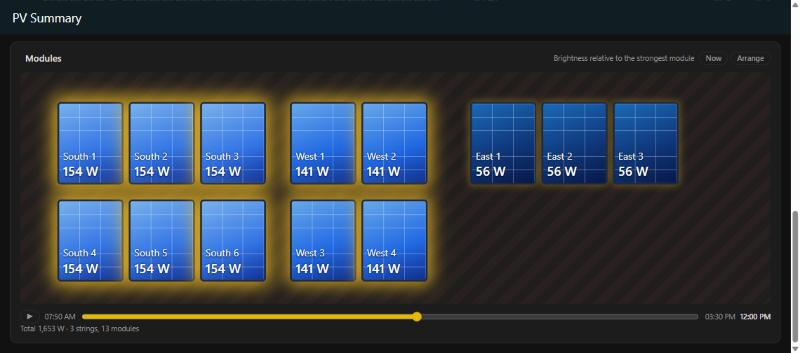
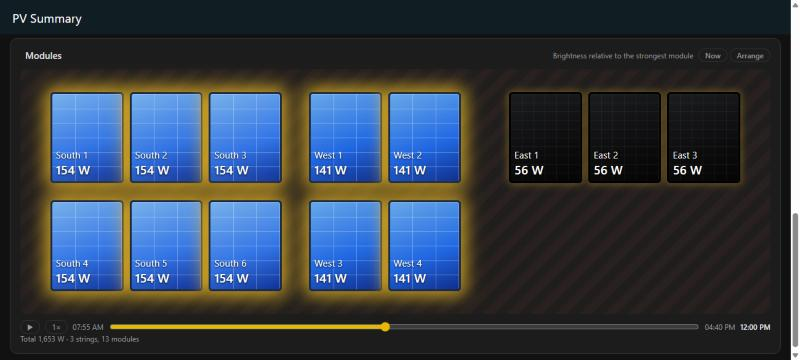
v1.18.0: full black modules, playback speed, brightness to the day's peak
- Strings: new field "Module colour" (blue or full black); full black tiles stay black and show their power by the glow around them
- Module view: playback speed 0.5x, 1x, 2x or 4x next to the play button, remembered by the browser
- Module view: third brightness mode relative to the highest module value of the whole day
- README: describes the new options, new module screenshot

diff --git a/custom_components/pv_overview/frontend/pv-summary-panel.js b/custom_components/pv_overview/frontend/pv-summary-panel.js
@@ -77,6 +77,7 @@ const STYLE = `
   .modroof { position:relative; border-radius:8px; background:repeating-linear-gradient(135deg, rgba(150,80,60,.10) 0 14px, rgba(150,80,60,.04) 14px 28px); }
   .modroof.edit { outline:1px dashed var(--divider-color, rgba(0,0,0,.25)); background-image:linear-gradient(var(--divider-color, rgba(0,0,0,.08)) 1px, transparent 1px), linear-gradient(90deg, var(--divider-color, rgba(0,0,0,.08)) 1px, transparent 1px);  }
   .modtile { position:absolute; box-sizing:border-box; border-radius:6px; border:3px solid #1b2a44; padding:6px; display:flex; flex-direction:column; justify-content:flex-end; color:#fff; cursor:pointer; transition:background 1s ease, box-shadow 1s ease; user-select:none; overflow:hidden; }
+  .modtile.black { border-color:#000; }
   .modroof.edit .modtile { cursor:grab; transition:none; touch-action:none; }
   .modroof.edit .modtile.drag { cursor:grabbing; z-index:2; outline:2px solid var(--primary-color, #03a9f4); }
   .modtile .mn { font-size:1em; text-shadow:0 1px 3px #000; white-space:nowrap; overflow:hidden; text-overflow:ellipsis; }
@@ -210,6 +211,7 @@ class PVSummaryPanel extends HTMLElement {
     this._modDraft = null;   // Anordnung während des Bearbeitens
     this._modDrag = null;    // gerade gezogene Kachel
     this._modTimer = null;   // Abspielen des Tages
+    this._modSpeed = [0.5, 1, 2, 4].includes(Number(loadPref("pv-summary-modspeed", "1"))) ? Number(loadPref("pv-summary-modspeed", "1")) : 1;
     this._cardEdit = false;  // Karten anpassen aktiv
     this._cardDraft = null;  // Kartenanordnung während des Anpassens
     this._cardDrag = null;   // gerade gezogene Karte
@@ -1826,6 +1828,7 @@ class PVSummaryPanel extends HTMLElement {
       ? `<span class="navbtns">
           <button class="navbtn ${lay.mode !== "own" ? "active" : ""}" data-nav="mod-mode-max" title="${TT("Hellstes Modul = 100 %", "Brightest module = 100 %")}">${TT("rel. zum stärksten", "rel. to strongest")}</button>
           <button class="navbtn ${lay.mode === "own" ? "active" : ""}" data-nav="mod-mode-own" title="${TT("Jeder String zu seinem Tageshöchstwert", "Each string to its peak of the day")}">${TT("je String eigenes Max.", "own peak per string")}</button>
+          <button class="navbtn ${lay.mode === "day" ? "active" : ""}" data-nav="mod-mode-day" title="${TT("Höchster Wert eines Moduls am ganzen Tag = 100 %", "Highest module value of the whole day = 100 %")}">${TT("zum Tagesmaximum", "to the day's peak")}</button>
           <button class="navbtn" data-nav="mod-cancel">${TT("Abbrechen", "Cancel")}</button>
           <button class="navbtn active" data-nav="mod-done">${TT("Fertig", "Done")}</button></span>`
       : `<span class="navbtns">${this._isToday ? `<button class="navbtn modlive" data-nav="mod-live"${this._modT === null ? ' style="display:none"' : ""}>${TT("Jetzt", "Now")}</button>` : ""}${admin ? `<button class="navbtn" data-nav="mod-edit">${TT("Anordnen", "Arrange")}</button>` : ""}</span>`;
@@ -1833,14 +1836,14 @@ class PVSummaryPanel extends HTMLElement {
       const p = pos[i], tw = p.rot ? h : w, th = p.rot ? w : h;
       const geo = `data-x="${p.x}" data-y="${p.y}" data-w="${tw}" data-h="${th}"`;
       const style = edit ? ` style="left:${(p.x * 100).toFixed(2)}%;top:${((p.y / H) * 100).toFixed(2)}%;width:${(tw * 100).toFixed(2)}%;height:${((th / H) * 100).toFixed(2)}%"` : "";
-      return `<div class="modtile" data-mod="${t.key}" data-key="${t.s.id}|string_power" ${geo}${style}>`
+      return `<div class="modtile${t.s.color === "black" ? " black" : ""}" data-mod="${t.key}" data-key="${t.s.id}|string_power" ${geo}${style}>`
         + `${edit ? `<span class="mrot" data-modrot="${t.key}" title="${TT("Drehen", "Rotate")}">↻</span>` : ""}<span class="mn">${escapeHtml(t.name)}</span><span class="mv"></span></div>`;
     }).join("");
     const playing = !!this._modTimer;
     const time = (ms) => fmtTime(ms);
     return `<div class="card modcard"><h3><ha-icon icon="mdi:solar-panel"></ha-icon>${TT("Module", "Modules")}<span class="hint modmode"></span>${btns}</h3>
       <div class="modroof-wrap${edit ? " edit" : ""}"><div class="modroof${edit ? " edit" : " fit"}" data-h="${H.toFixed(4)}"${edit ? ` style="aspect-ratio:1 / ${H.toFixed(4)};background-size:5% ${(5 / H).toFixed(3)}%"` : ""}>${roof}</div></div>
-      <div class="modbar"><button class="navbtn" data-nav="mod-play" title="${TT("Tag abspielen", "Play the day")}">${playing ? "❚❚" : "▶"}</button>
+      <div class="modbar"><button class="navbtn" data-nav="mod-play" title="${TT("Tag abspielen", "Play the day")}">${playing ? "❚❚" : "▶"}</button><button class="navbtn modspeed" data-nav="mod-speed" title="${TT("Tempo beim Abspielen", "Playback speed")}">${fmt(this._modSpeed, this._modSpeed < 1 ? 1 : 0)}×</button>
         <span class="muted">${time(a)}</span><input type="range" class="modsl" min="${a}" max="${b}" step="${5 * 60000}" value="${this._modT ?? b}"><span class="muted">${time(b)}</span><b class="modtm"></b></div>
       <div class="muted modsum" style="font-size:12px"></div></div>`;
   }
@@ -1852,13 +1855,16 @@ class PVSummaryPanel extends HTMLElement {
     const tiles = this._modTiles(), lay = this._modLayout();
     const { pow, peak, live } = this._modValues();
     const vals = tiles.map((t) => (pow[t.s.id] || 0) / t.n);
-    const ref = Math.max(50, ...vals);
+    // Tagesmaximum: höchster Wert eines Moduls am ganzen angezeigten Tag (heute bis jetzt, samt Live-Wert)
+    const dayRef = Math.max(50, ...tiles.map((t) => (peak[t.s.id] || 0) / t.n), ...(live ? vals : []));
+    const ref = lay.mode === "day" ? dayRef : Math.max(50, ...vals);
     tiles.forEach((t, i) => {
       const el = card.querySelector(`[data-mod="${t.key}"]`);
       if (!el) return;
       const p = Math.max(0, Math.min(1, lay.mode === "own" ? (pow[t.s.id] || 0) / Math.max(50, peak[t.s.id] || 0) : vals[i] / ref));
       const l = 10 + p * 45;
-      el.style.background = `repeating-linear-gradient(90deg, transparent 0 calc(33.33% - 1px), rgba(255,255,255,.3) calc(33.33% - 1px) 33.33%), repeating-linear-gradient(0deg, transparent 0 calc(16.66% - 1px), rgba(255,255,255,.3) calc(16.66% - 1px) 16.66%), linear-gradient(160deg, hsl(210,75%,${(l + 15).toFixed(1)}%) 0%, hsl(218,78%,${l.toFixed(1)}%) 60%, hsl(225,80%,${(l * 0.6).toFixed(1)}%) 100%)`;
+      if (t.s.color === "black") el.style.background = "repeating-linear-gradient(90deg, transparent 0 calc(16.66% - 1px), rgba(255,255,255,.05) calc(16.66% - 1px) 16.66%), repeating-linear-gradient(0deg, transparent 0 calc(10% - 1px), rgba(255,255,255,.05) calc(10% - 1px) 10%), linear-gradient(160deg, #1c1d20 0%, #0b0b0c 70%, #050505 100%)";
+      else el.style.background = `repeating-linear-gradient(90deg, transparent 0 calc(33.33% - 1px), rgba(255,255,255,.3) calc(33.33% - 1px) 33.33%), repeating-linear-gradient(0deg, transparent 0 calc(16.66% - 1px), rgba(255,255,255,.3) calc(16.66% - 1px) 16.66%), linear-gradient(160deg, hsl(210,75%,${(l + 15).toFixed(1)}%) 0%, hsl(218,78%,${l.toFixed(1)}%) 60%, hsl(225,80%,${(l * 0.6).toFixed(1)}%) 100%)`;
       el.style.boxShadow = `0 0 ${(p * 30).toFixed(1)}px ${(p * 8).toFixed(1)}px rgba(255,200,40,${(p * 0.8).toFixed(2)})`;
       el.querySelector(".mv").textContent = fmtW(vals[i]);
     });
@@ -1868,7 +1874,8 @@ class PVSummaryPanel extends HTMLElement {
     if (sl && this._modT !== null) sl.value = this._modT;
     const liveBtn = card.querySelector(".modlive");
     if (liveBtn) liveBtn.style.display = live ? "none" : "";
-    card.querySelector(".modmode").textContent = lay.mode === "own" ? TT("Helligkeit je String zum Tageshöchstwert", "Brightness per string to its peak") : TT("Helligkeit relativ zum stärksten Modul", "Brightness relative to the strongest module");
+    card.querySelector(".modmode").textContent = lay.mode === "own" ? TT("Helligkeit je String zum Tageshöchstwert", "Brightness per string to its peak")
+      : lay.mode === "day" ? TT("Helligkeit zum Tagesmaximum", "Brightness relative to the day's peak") : TT("Helligkeit relativ zum stärksten Modul", "Brightness relative to the strongest module");
     card.querySelector(".modsum").textContent = `${TT("Summe", "Total")} ${fmtW(total)} · ${(this._entry.strings || []).length} ${TT("Strings", "strings")}, ${tiles.length} ${TT("Module", "modules")}`;
     // Senkrechte Linie in „Leistung je String“
     const line = this._content.querySelector('.curve-wrap[data-chart="strings"] .modt'), c = this._curves.strings;
@@ -1953,6 +1960,16 @@ class PVSummaryPanel extends HTMLElement {
     roof.addEventListener("pointercancel", end);
   }
 
+  // Ein 5-Minuten-Schritt alle 80 ms bei 1×, schneller bzw. langsamer je nach Tempo
+  _modPlay() {
+    this._modTimer = setInterval(() => {
+      const [, end] = this._modRange();
+      this._modT = Math.min(end, this._modT + 5 * 60000);
+      if (this._modT >= end) { this._modStop(); this._render(); return; }
+      this._updateModules();
+    }, 80 / this._modSpeed);
+  }
+
   _modStop() {
     if (this._modTimer) { clearInterval(this._modTimer); this._modTimer = null; }
   }
@@ -1962,12 +1979,7 @@ class PVSummaryPanel extends HTMLElement {
       if (this._modTimer) { this._modStop(); this._render(); return; }
       const [a, b] = this._modRange();
       if (this._modT === null || this._modT >= b) this._modT = a;
-      this._modTimer = setInterval(() => {
-        const [, end] = this._modRange();
-        this._modT = Math.min(end, this._modT + 5 * 60000);
-        if (this._modT >= end) { this._modStop(); this._render(); return; }
-        this._updateModules();
-      }, 80);
+      this._modPlay();
       this._render();
     } else if (action === "mod-live") {
       this._modStop();
@@ -1975,11 +1987,17 @@ class PVSummaryPanel extends HTMLElement {
       this._render();
     } else if (action === "mod-edit") {
       const tiles = this._modTiles(), pos = this._modPositions(tiles), lay = this._entry.layout || {};
-      this._modDraft = { mode: lay.mode === "own" ? "own" : "max", tiles: Object.fromEntries(tiles.map((t, i) => [t.key, { ...pos[i] }])) };
+      this._modDraft = { mode: ["own", "day"].includes(lay.mode) ? lay.mode : "max", tiles: Object.fromEntries(tiles.map((t, i) => [t.key, { ...pos[i] }])) };
       this._modEdit = true;
       this._render();
-    } else if (action === "mod-mode-max" || action === "mod-mode-own") {
-      if (this._modDraft) this._modDraft.mode = action === "mod-mode-own" ? "own" : "max";
+    } else if (action === "mod-mode-max" || action === "mod-mode-own" || action === "mod-mode-day") {
+      if (this._modDraft) this._modDraft.mode = action.slice(9);
+      this._render();
+    } else if (action === "mod-speed") {
+      const speeds = [0.5, 1, 2, 4];
+      this._modSpeed = speeds[(speeds.indexOf(this._modSpeed) + 1) % speeds.length];
+      savePref("pv-summary-modspeed", String(this._modSpeed));
+      if (this._modTimer) { this._modStop(); this._modPlay(); }
       this._render();
     } else if (action === "mod-cancel") {
       this._modDraft = null;

diff --git a/custom_components/pv_overview/config_flow.py b/custom_components/pv_overview/config_flow.py
@@ -33,6 +33,7 @@ from .const import (
     CONF_PRICE_EXPORT,
     CONF_PRICE_IMPORT,
     CONF_SOURCE,
+    CONF_STRING_COLOR,
     CONF_STRING_CURRENT,
     CONF_STRING_MODULES,
     CONF_STRING_POWER,
@@ -43,6 +44,7 @@ from .const import (
     DOMAIN,
     GRID_MIGRATED,
     SUBENTRY_BATTERY,
+    STRING_COLORS,
     SUBENTRY_STRING,
 )
 
@@ -57,6 +59,9 @@ PRICE_SELECTOR = selector.NumberSelector(
 )
 INVESTMENT_SELECTOR = selector.NumberSelector(
     selector.NumberSelectorConfig(min=0, max=10_000_000, step=1, mode=selector.NumberSelectorMode.BOX)
+)
+COLOR_SELECTOR = selector.SelectSelector(
+    selector.SelectSelectorConfig(options=list(STRING_COLORS), translation_key="string_color", mode=selector.SelectSelectorMode.LIST)
 )
 MODULES_SELECTOR = selector.NumberSelector(
     selector.NumberSelectorConfig(min=1, max=200, step=1, mode=selector.NumberSelectorMode.BOX)
@@ -234,10 +239,12 @@ class StringSubentryFlow(_BaseSubentryFlow):
                 _optional(CONF_STRING_VOLTAGE, config): SOURCE_SELECTOR,
                 _optional(CONF_STRING_CURRENT, config): SOURCE_SELECTOR,
                 vol.Required(CONF_STRING_MODULES, default=int(config.get(CONF_STRING_MODULES) or 1)): MODULES_SELECTOR,
+                vol.Required(CONF_STRING_COLOR, default=config.get(CONF_STRING_COLOR) or "blue"): COLOR_SELECTOR,
             }
         )
 
     def _data(self, user_input: dict[str, Any]) -> dict[str, Any]:
         data = super()._data(user_input)
         data[CONF_STRING_MODULES] = max(1, int(user_input.get(CONF_STRING_MODULES) or 1))
+        data[CONF_STRING_COLOR] = user_input.get(CONF_STRING_COLOR) if user_input.get(CONF_STRING_COLOR) in STRING_COLORS else "blue"
         return data

diff --git a/custom_components/pv_overview/panel.py b/custom_components/pv_overview/panel.py
@@ -16,6 +16,7 @@ from homeassistant.helpers import entity_registry as er
 from .const import (
     CONF_BATTERY_CAPACITY,
     CONF_INVESTMENT,
+    CONF_STRING_COLOR,
     CONF_STRING_MODULES,
     CONF_THRESHOLD,
     DEFAULT_THRESHOLD,
@@ -90,6 +91,7 @@ def ws_get_config(
                 "title": sub.title,
                 "capacity": sub.data.get(CONF_BATTERY_CAPACITY),
                 "modules": int(sub.data.get(CONF_STRING_MODULES) or 1),
+                "color": sub.data.get(CONF_STRING_COLOR) or "blue",
                 "entities": {},
             }
             for sub in entry.subentries.values()
@@ -158,7 +160,7 @@ def _clean_layout(layout: dict[str, Any]) -> dict[str, Any]:
         except (TypeError, ValueError):
             continue
         tiles[key] = {"x": round(x, 4), "y": round(y, 4), "rot": bool(tile.get("rot"))}
-    return {"mode": "own" if layout.get("mode") == "own" else "max", "tiles": tiles}
+    return {"mode": layout.get("mode") if layout.get("mode") in ("own", "day") else "max", "tiles": tiles}
 
 
 @websocket_api.websocket_command(

diff --git a/custom_components/pv_overview/const.py b/custom_components/pv_overview/const.py
@@ -17,7 +17,7 @@ CONF_PRICE_EXPORT = "price_export"  # Einspeisevergütung je kWh
 CONF_INVESTMENT = "investment"  # Anschaffungskosten der Anlage
 
 # Eigenes Dashboard (Panel in der Seitenleiste)
-VERSION = "1.17.1"
+VERSION = "1.18.0"
 # Eigene Adresse, damit sie nicht mit einem Lovelace-Dashboard "pv-summary" kollidiert
 PANEL_URL = "pv-summary-panel"
 STATIC_URL = "/pv_summary_static"
@@ -30,6 +30,8 @@ CONF_STRING_POWER = "string_power_entity"
 CONF_STRING_VOLTAGE = "string_voltage_entity"
 CONF_STRING_CURRENT = "string_current_entity"
 CONF_STRING_MODULES = "string_modules"  # Anzahl Module des Strings (für die Modulansicht), Standard 1
+CONF_STRING_COLOR = "string_color"  # Aussehen der Module in der Modulansicht: "blue" oder "black" (Full Black)
+STRING_COLORS = ("blue", "black")
 
 # Akku-Felder (bis v1.5 direkt in der Integration, seit v1.6 je Akku-Unter-Eintrag)
 SECTION_BATTERY = "battery"

diff --git a/README.de.md b/README.de.md
@@ -74,7 +74,7 @@ Unter **Konfigurieren** kannst du den **Strompreis je kWh**, die **Einspeiseverg
 
 ## Strings (optional)
 
-Über **String hinzufügen** trägst du einzelne PV-Strings ein: Leistung (Pflicht), Spannung und Strom (optional) sowie die Anzahl der Module des Strings (Standard 1) für die Modulansicht. Jeder String bekommt ein eigenes Gerät mit *Leistung*, *Produktion heute*, *Produktion gesamt* und gegebenenfalls *Spannung* und *Strom*. Sobald mindestens ein String eingetragen ist, hat das Dashboard einen zusätzlichen Tab **Strings**.
+Über **String hinzufügen** trägst du einzelne PV-Strings ein: Leistung (Pflicht), Spannung und Strom (optional) sowie für die Modulansicht die Anzahl der Module des Strings (Standard 1) und die Modulfarbe (Blau oder Full Black). Jeder String bekommt ein eigenes Gerät mit *Leistung*, *Produktion heute*, *Produktion gesamt* und gegebenenfalls *Spannung* und *Strom*. Sobald mindestens ein String eingetragen ist, hat das Dashboard einen zusätzlichen Tab **Strings**.
 
 ## Erzeugte Sensoren
 
@@ -127,7 +127,7 @@ Die Integration bringt ihr eigenes Dashboard mit. Es erscheint nach dem Einricht
 
   <img src="https://raw.githubusercontent.com/berwil84afk/ha-pv-summary/main/docs/strings.jpg" alt="Tab Strings mit gestapelter Leistung je String" width="640">
 
-- **Module** (unten im Tab Strings): Jedes Modul erscheint als Kachel im Look eines Solarmoduls, die umso heller leuchtet, je mehr Leistung es bringt. Ein String mit mehreren Modulen bekommt eine Kachel je Modul, jede zeigt ihren Anteil an der Leistung des Strings. Die Helligkeit richtet sich nach dem stärksten Modul, umschaltbar auch je String nach seinem eigenen Tageshöchstwert. Ein Schieber durchläuft den oben gewählten Tag (Sonnenaufgang bis -untergang), ▶ spielt ihn ab, und eine Linie in „Leistung je String“ markiert die gewählte Uhrzeit; **Jetzt** springt zurück zu den Live-Werten. Administratoren ziehen die Kacheln über **Anordnen** so hin, wie sie auf dem Dach liegen, und drehen sie; die Anordnung wird in Home Assistant gespeichert und gilt auf allen Geräten. In der normalen Ansicht wird die Anordnung so vergrößert, dass sie die Karte ausfüllt, und mittig gesetzt, sie passt damit auch in eine halb breite Karte oder aufs Handy; beim Anordnen siehst du sie in echter Größe auf einem Raster, das ab 600 Pixeln Höhe scrollt. Ein Klick auf eine Kachel öffnet den Verlauf ihres Strings.
+- **Module** (unten im Tab Strings): Jedes Modul erscheint als Kachel im Look eines Solarmoduls, die umso heller leuchtet, je mehr Leistung es bringt. Ein String mit mehreren Modulen bekommt eine Kachel je Modul, jede zeigt ihren Anteil an der Leistung des Strings. Full-Black-Module bleiben schwarz und zeigen ihre Leistung nur über den Schein um das Modul. Die Helligkeit richtet sich nach dem stärksten Modul, beim Anordnen umschaltbar auch je String nach seinem eigenen Tageshöchstwert oder für alle Module nach dem höchsten Modulwert des ganzen Tages (beim Abspielen sieht man den Tag so aufgehen und abklingen). Ein Schieber durchläuft den oben gewählten Tag (Sonnenaufgang bis -untergang), ▶ spielt ihn mit 0,5×, 1×, 2× oder 4× Tempo ab (der Knopf daneben schaltet das Tempo um, der Browser merkt es sich), und eine Linie in „Leistung je String“ markiert die gewählte Uhrzeit; **Jetzt** springt zurück zu den Live-Werten. Administratoren ziehen die Kacheln über **Anordnen** so hin, wie sie auf dem Dach liegen, und drehen sie; die Anordnung wird in Home Assistant gespeichert und gilt auf allen Geräten. In der normalen Ansicht wird die Anordnung so vergrößert, dass sie die Karte ausfüllt, und mittig gesetzt, sie passt damit auch in eine halb breite Karte oder aufs Handy; beim Anordnen siehst du sie in echter Größe auf einem Raster, das ab 600 Pixeln Höhe scrollt. Ein Klick auf eine Kachel öffnet den Verlauf ihres Strings.
 
   <img src="https://raw.githubusercontent.com/berwil84afk/ha-pv-summary/main/docs/modules.jpg" alt="Modulansicht mit leuchtenden Modulkacheln und Zeitschieber" width="640">
 

diff --git a/README.md b/README.md
@@ -74,7 +74,7 @@ Under **Configure** you can enter the **electricity price per kWh**, the **feed-
 
 ## Strings (optional)
 
-Via **Add string** you enter individual PV strings: power (required), voltage and current (optional), and the number of modules of the string (default 1) for the module view. Each string gets its own device with *Power*, *Production today*, *Production total* and, if configured, *Voltage* and *Current*. As soon as at least one string exists, the dashboard has an additional **Strings** tab.
+Via **Add string** you enter individual PV strings: power (required), voltage and current (optional), and, for the module view, the number of modules of the string (default 1) and the module colour (blue or full black). Each string gets its own device with *Power*, *Production today*, *Production total* and, if configured, *Voltage* and *Current*. As soon as at least one string exists, the dashboard has an additional **Strings** tab.
 
 ## Sensors
 
@@ -127,7 +127,7 @@ The integration brings its own dashboard. After setup it appears automatically a
 
   <img src="https://raw.githubusercontent.com/berwil84afk/ha-pv-summary/main/docs/strings.jpg" alt="Strings tab with stacked power per string" width="640">
 
-- **Modules** (at the bottom of the Strings tab): every module is shown as a solar panel tile that glows brighter the more power it delivers. A string with several modules gets one tile per module, each showing its share of the string power. Brightness is relative to the strongest module, or, switchable, each string relative to its own peak of the day. A slider runs through the day shown above (from sunrise to sunset), ▶ plays it back, and a line in the power per string chart marks the selected time; **Now** returns to the live values. Administrators can use **Arrange** to drag the tiles to match the roof and rotate them; the arrangement is saved in Home Assistant and applies to all devices. In the normal view the arrangement is scaled to fill the card and centred, so it also fits a half width card or a phone; while arranging you see it on a grid at its real size, and that area scrolls once it gets taller than 600 pixels. Clicking a tile opens the history of its string.
+- **Modules** (at the bottom of the Strings tab): every module is shown as a solar panel tile that glows brighter the more power it delivers. A string with several modules gets one tile per module, each showing its share of the string power. Full black modules stay black and show their power only by the glow around them. Brightness is relative to the strongest module, or, switchable while arranging, each string relative to its own peak of the day, or every module relative to the highest module value of the whole day (so playing the day back shows it rise and fall). A slider runs through the day shown above (from sunrise to sunset), ▶ plays it back at 0.5×, 1×, 2× or 4× speed (the button next to it switches the speed, the browser remembers it), and a line in the power per string chart marks the selected time; **Now** returns to the live values. Administrators can use **Arrange** to drag the tiles to match the roof and rotate them; the arrangement is saved in Home Assistant and applies to all devices. In the normal view the arrangement is scaled to fill the card and centred, so it also fits a half width card or a phone; while arranging you see it on a grid at its real size, and that area scrolls once it gets taller than 600 pixels. Clicking a tile opens the history of its string.
 
   <img src="https://raw.githubusercontent.com/berwil84afk/ha-pv-summary/main/docs/modules.jpg" alt="Module view with glowing panel tiles and a time slider" width="640">
 
